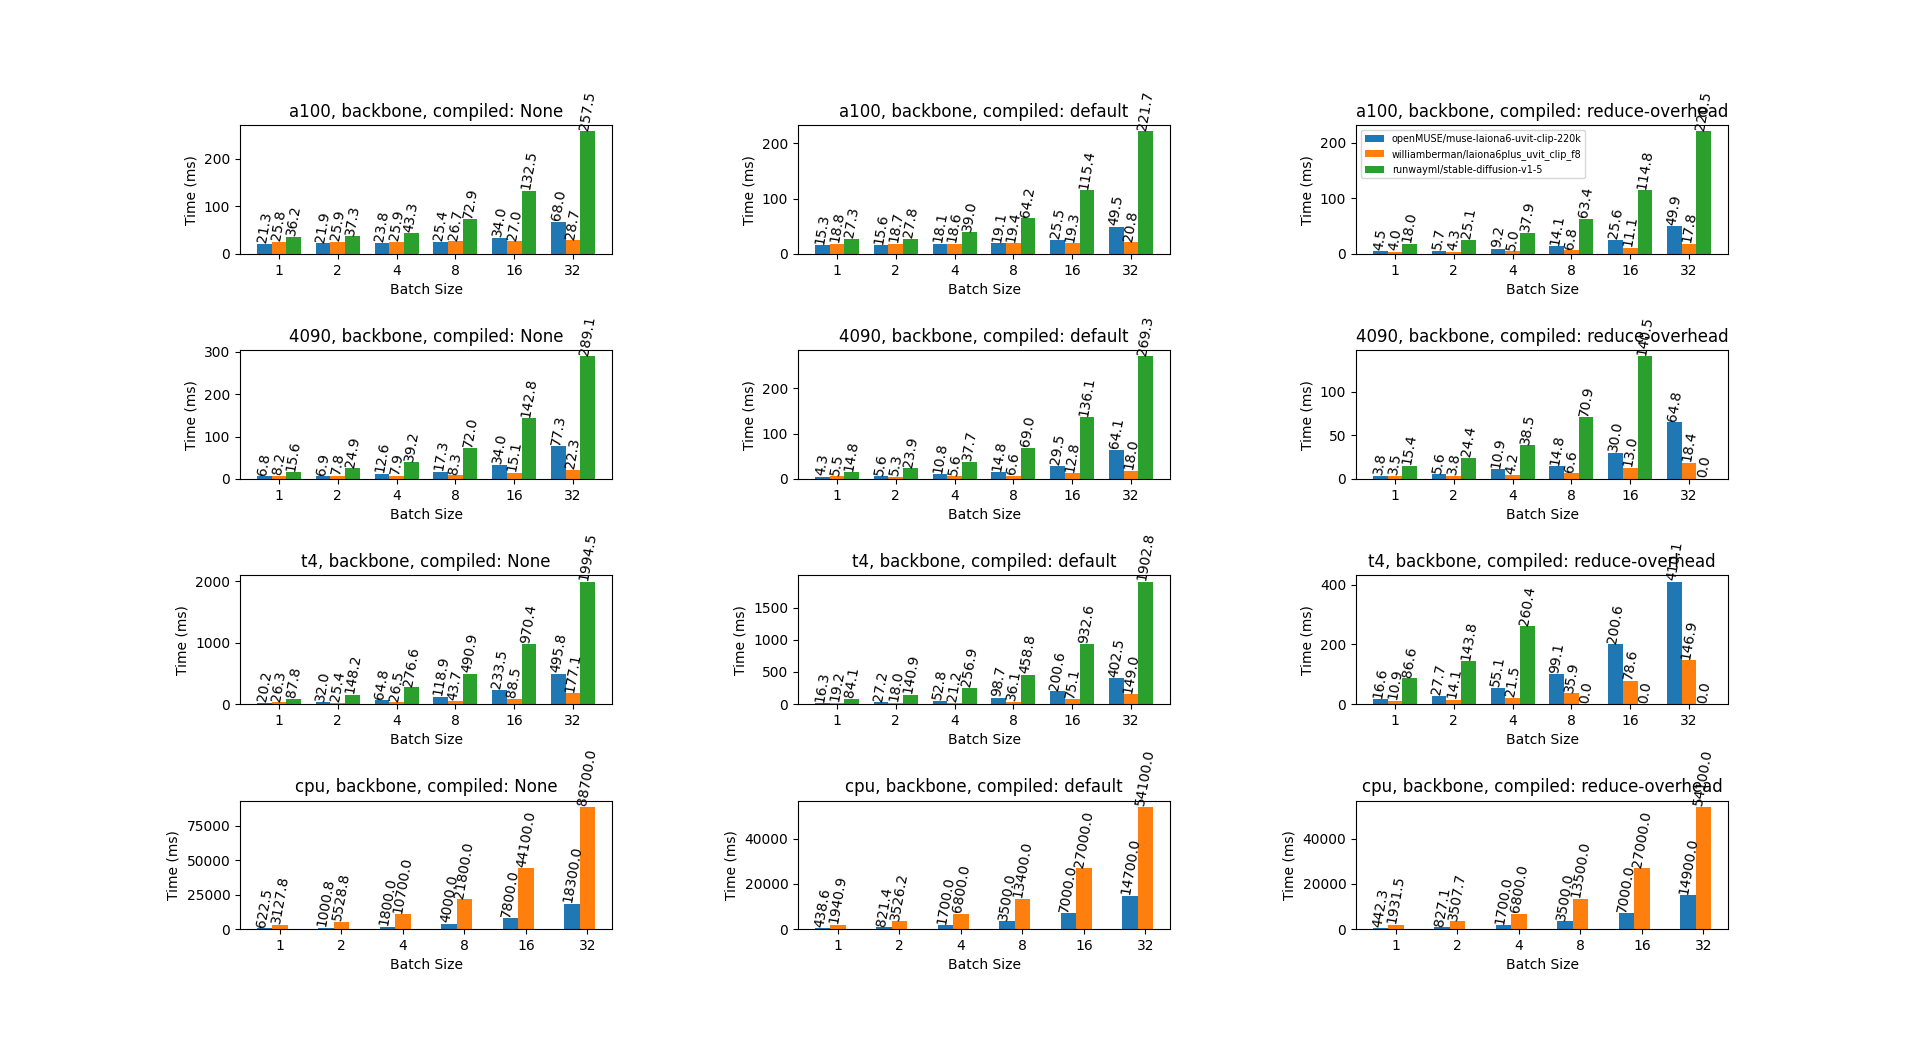
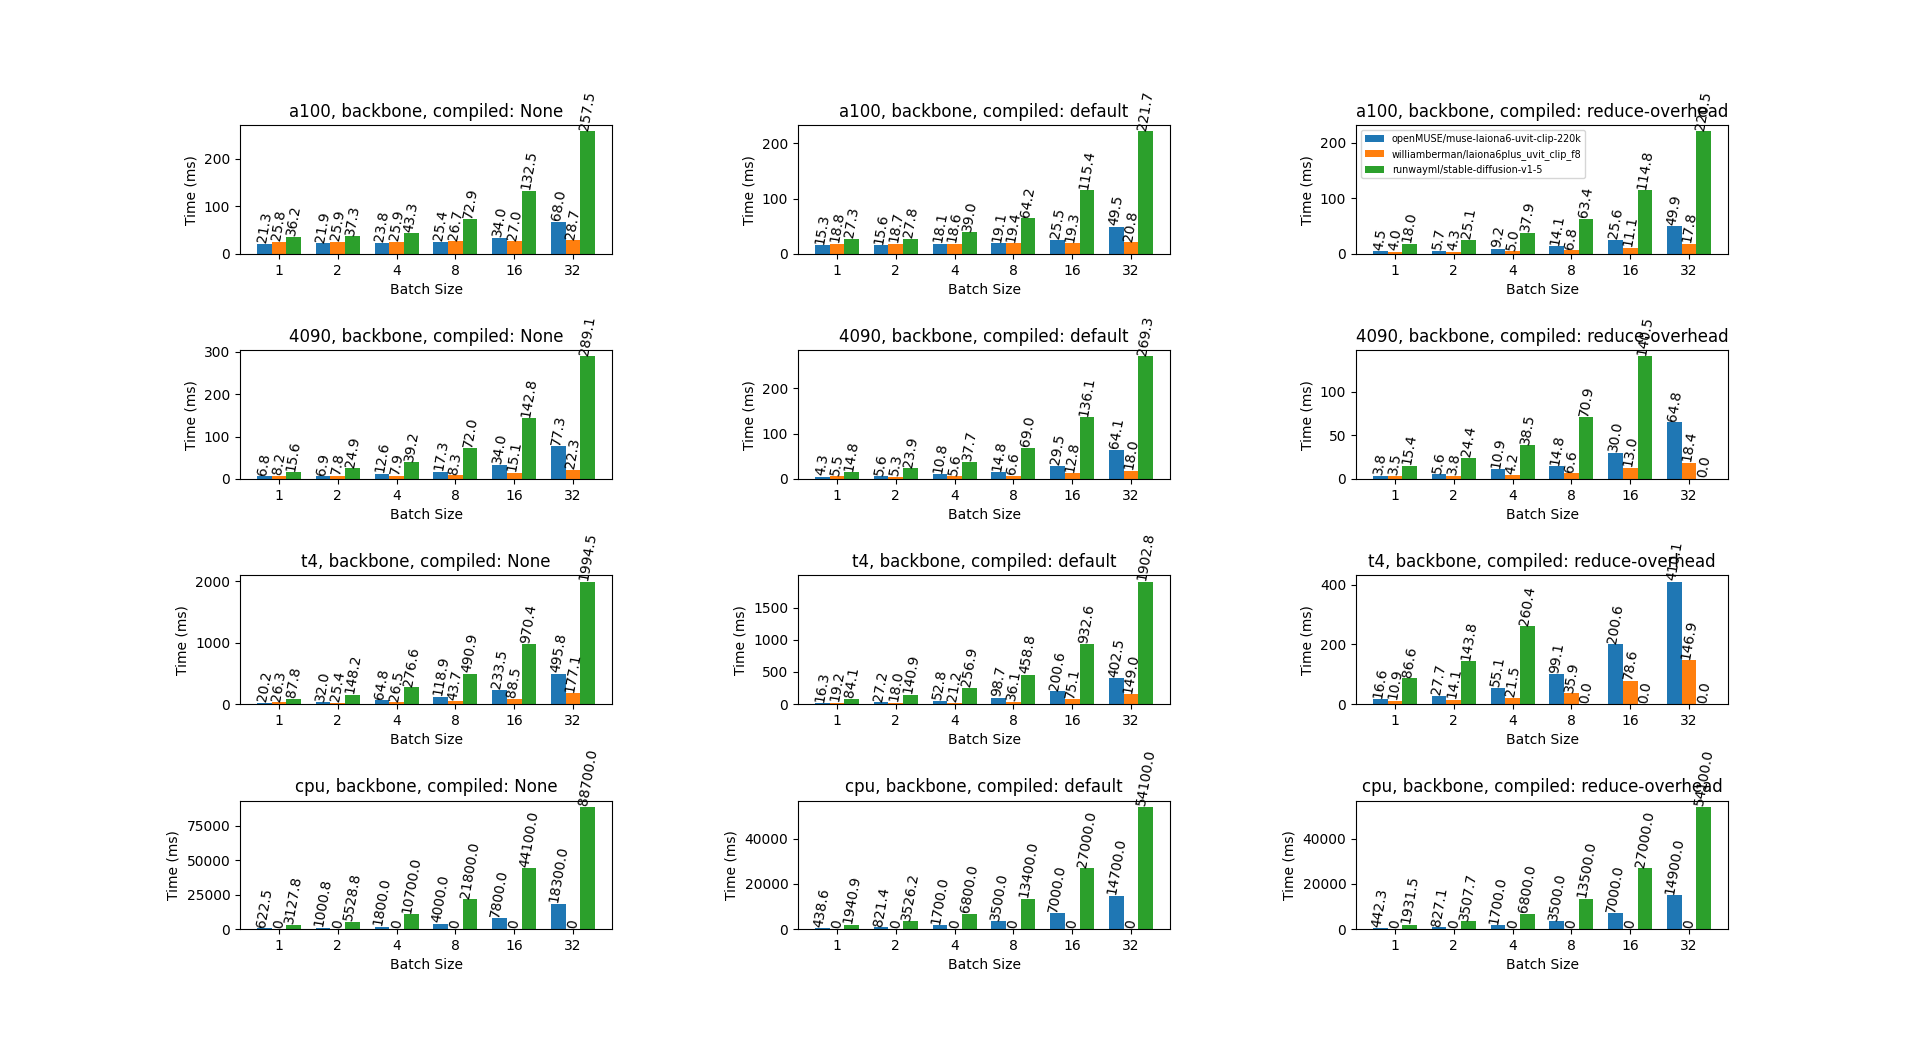
fix for not present data

Changed region(s): [[0.4062, 0.7663, 0.625, 0.9195], [0.7188, 0.7663, 0.9062, 0.9195], [0.125, 0.7356, 0.3125, 0.9195]]

diff --git a/chart.py b/chart.py
@@ -25,12 +25,7 @@ def chart(device, component, compiled, plot_on, legend):
         nonlocal placement
         placement = [x + bar_width for x in placement]
 
-    this_chart_model_names = fdf["Model Name"].unique()
-
     for model_name in model_names:
-        if model_name not in this_chart_model_names:
-            continue
-
         filter_ = fdf["Model Name"] == model_name
 
         ffdf = fdf[filter_]
